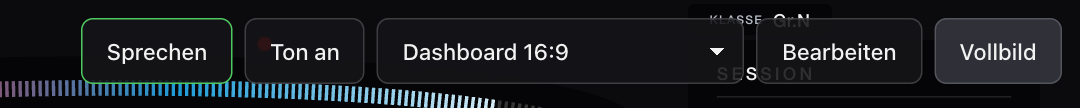
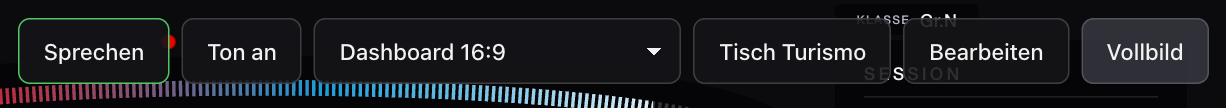
The guides explain Tisch Turismo and record where its code and assets came from
The guides cover the app menu, OBS picture formats, recording and optional Twitch chat, with screenshots in both languages. The provenance and contributor notes describe the game and its tests.

diff --git a/README.de.md b/README.de.md
@@ -34,6 +34,9 @@ Rechner, für ein Tablet neben dem Rig oder als Browser-Quelle in OBS.
   für Google Gemini.
 - **Eine Demo-Fahrt** ist eingebaut: eine aufgezeichnete Fahrt über vier Runden. Du kannst alles
   ohne Konsole ausprobieren, auch die Rundenzeiten und den Untergrund-Ring.
+- **Tisch Turismo**, ein kleines Spiel nebenbei: Ein Spielzeugauto fährt auf einem Schreibtisch
+  nach, was du fährst, und deine eigenen früheren Runden fahren dagegen. Gedacht für die
+  Zuschauer eines Streams.
 
 <p>
   <img src="docs/images/milk.gif" width="170" alt="Ein Glas Milch, das mit den Kräften im Auto schwappt">
@@ -135,6 +138,40 @@ Sie ist durchsichtig, zeigt das Overlay-Layout und blendet die Fahranzeigen aus,
 den Menüs bist. `?layout=<Name>` wählt ein anderes Layout, `?lang=en` und `?units=imperial`
 stellen Sprache und Einheiten für diese Quelle ein.
 
+## Tisch Turismo – das Spiel auf dem Schreibtisch
+
+<img src="docs/images/de/game.png" width="430" align="right" alt="Tisch Turismo: ein Spielzeugauto auf einer orangen Bahn auf einem Schreibtisch, daneben ein blaues Auto als Gegner">
+
+Ein Spielzeugauto fährt auf einem Schreibtisch genau das nach, was dein Auto auf der PlayStation
+gerade tut – im Aussehen eines Rennspiels der Neunzigerjahre. Einen Controller braucht es nicht:
+Du spielst, indem du Gran Turismo 7 fährst.
+
+1. **Vermessen:** Bis zur ersten vollen Runde zieht das Auto eine Kreidelinie über den Tisch.
+2. **Bahn:** Ist die Runde zu, klicken entlang der Linie orange Bahnteile ein. In den nächsten
+   Runden rückt die Bahn noch dorthin, wo du wirklich fährst.
+3. **Gegner:** Deine Bestrunde (blau) und deine letzte Runde (rot) fahren als Spielzeugautos mit.
+4. **Wertung:** Wer den anderen abhängt, bekommt ein Licht; acht Lichter gewinnen die Partie.
+   Münzen auf der Bahn bringen Cr., Öl kostet welche, Drifts zählen nach Winkel und Dauer.
+
+Du öffnest es über das Menü des Symbols (*Tisch Turismo (Spiel)*), über das Menü des Dashboards
+oder unter `http://127.0.0.1:8707/game`. Ohne Konsole fährt die Demo-Fahrt. Unter dem Bild wählst
+du seine Form (4:3, 16:9 oder 9:16); *Aufnehmen* speichert das Bild als Video (im Browser, nicht
+im Fenster der App).
+
+**In OBS** eine zweite Quelle *Browser* anlegen: `http://127.0.0.1:8707/game?obs=1&format=wide`,
+1536 × 864. Für 4:3 `format` weglassen und 1280 × 960 nehmen, für 9:16 `format=portrait` und
+864 × 1536 – bei diesen Größen ist jedes Pixel des Spiels genau zwei Pixel breit. `&delay=640`
+hält das Bild um so viele Millisekunden zurück, damit es zu einem Spielbild passt, das verspätet
+in OBS ankommt (Capture-Karte). Wird die Quelle mitten im Rennen neu geladen, baut das Spiel
+Bahn, Gegner und Punktestand aus der bisherigen Fahrt wieder auf.
+
+**Zuschauer spielen mit**, wenn du deinen Twitch-Kanal nennst: `&channel=deinkanal`. `!münze`
+legt eine Münze voraus auf die Bahn, `!öl` einen Ölfleck (je Zuschauer alle 20 Sekunden). Dafür
+liest die Seite den öffentlichen Chat dieses Kanals direkt bei Twitch mit.
+
+Die Zettel auf dem Schreibtisch erzählen kleine wahre Geschichten über Gran Turismo. *Quellen*
+unter dem Bild nennt die Belege – und wessen Arbeit im Spiel steckt.
+
 ## Sprache und Einheiten
 
 Deutsch und Englisch; jedes Gerät nimmt seine eigene Sprache, solange du unter *Einstellungen*
@@ -202,12 +239,13 @@ Ohne die Box läuft alles andere wie gewohnt.
 
 Das Menü des Dashboards erscheint, wenn du den Zeiger bewegst oder den Bildschirm berührst:
 
-<img src="docs/images/de/menu.png" width="540" alt="Menü des Dashboards: Sprechen, Ton an, Layout, Bearbeiten, Vollbild">
+<img src="docs/images/de/menu.png" width="540" alt="Menü des Dashboards: Sprechen, Ton an, Layout, Tisch Turismo, Bearbeiten, Vollbild">
 
 ## Datenschutz und Sicherheit
 
 - Das Programm spricht mit deiner PlayStation und mit den Geräten in deinem Heimnetz. Ins
-  Internet geht nichts – außer an Google, wenn du die Box mit Gemini nutzt (siehe oben).
+  Internet geht nichts – außer an Google, wenn du die Box mit Gemini nutzt (siehe oben). Das
+  Spiel liest den Chat eines Twitch-Kanals nur mit, wenn du in seiner Adresse einen nennst.
 - Es ist für ein Heimnetz gemacht. Gib seinen Port nicht ins Internet frei.
 - Einstellungen und eigene Layouts liegen in deinem Benutzerordner (`gt7-companion-by-qshi`).
 

diff --git a/README.md b/README.md
@@ -33,6 +33,8 @@ computer, for a tablet next to your rig, or as a browser source in OBS.
   Gemini API key.
 - **A demo drive** is built in: a recorded drive of four laps. You can try everything without
   a console, lap times and the surface ring included.
+- **Tisch Turismo**, a little game on the side: a toy car on a desk drives what you drive, and
+  your own earlier laps race against it. Made for the viewers of a stream.
 
 <p>
   <img src="docs/images/milk.gif" width="170" alt="A glass of milk that sloshes with the forces in the car">
@@ -130,6 +132,39 @@ It is transparent, shows the overlay layout and hides the driving widgets while 
 the menus. `?layout=<name>` picks another layout, `?lang=en` and `?units=imperial` set
 language and units for this source.
 
+## Tisch Turismo – the game on the desk
+
+<img src="docs/images/en/game.png" width="430" align="right" alt="Tisch Turismo: a toy car on an orange track on a desk, next to it a blue car as its opponent">
+
+A toy car on a desk drives exactly what your car is doing on the PlayStation – in the look of a
+racing game of the 1990s. It needs no controller: you play it by driving Gran Turismo 7.
+
+1. **Measuring:** until your first full lap is done, the car draws a chalk line across the desk.
+2. **Track:** once the lap is closed, orange track pieces click into place along the line. Over
+   the next laps the track still moves to where you really drive.
+3. **Opponents:** your best lap (blue) and your last lap (red) drive along as toy cars.
+4. **Score:** whoever pulls away from the other gets a light; eight lights win the match. Coins
+   on the track bring credits, oil costs some, drifts count by angle and length.
+
+Open it from the menu of the symbol (*Tisch Turismo (game)*), from the menu of the dashboard or
+at `http://127.0.0.1:8707/game`. Without a console it plays the demo drive. Below the picture
+you choose its shape (4:3, 16:9 or 9:16); *Record* saves the picture as a video (in a browser,
+not in the window of the app).
+
+**In OBS** add a second *Browser* source: `http://127.0.0.1:8707/game?obs=1&format=wide`,
+1536 × 864. For 4:3 leave `format` out and take 1280 × 960, for 9:16 `format=portrait` and
+864 × 1536 – at these sizes every pixel of the game is exactly two pixels wide. `&delay=640`
+holds the picture back by that many milliseconds, so that it matches a game picture that
+reaches OBS late (a capture card). If the source is loaded again in the middle of a race, the
+game builds track, opponents and score up again from the drive so far.
+
+**Viewers join in** when you name your Twitch channel: `&channel=yourchannel`. `!coin` puts a
+coin on the track ahead, `!oil` an oil slick (each viewer every 20 seconds). For this the page
+reads the public chat of that channel directly from Twitch.
+
+The notes on the desk tell small true stories about Gran Turismo. *Sources* below the picture
+lists where they come from – and whose work is in the game.
+
 ## Language and units
 
 German and English; each device uses its own language unless you choose one under *Settings*.
@@ -195,12 +230,13 @@ Without the Box everything else works as usual.
 
 The menu of the dashboard appears when you move the pointer or touch the screen:
 
-<img src="docs/images/en/menu.png" width="540" alt="Menu of the dashboard: Talk, Sound on, layout, Edit, Full screen">
+<img src="docs/images/en/menu.png" width="540" alt="Menu of the dashboard: Talk, Sound on, layout, Tisch Turismo, Edit, Full screen">
 
 ## Privacy and safety
 
 - The program talks to your PlayStation and to the devices in your home network. Nothing is
-  sent to the internet, except to Google when you use the Box with Gemini (see above).
+  sent to the internet, except to Google when you use the Box with Gemini (see above). The game
+  reads the chat of a Twitch channel only if you name one in its address.
 - It is made for a home network. Do not open its port to the internet.
 - Settings and your own layouts are stored in your user folder (`gt7-companion-by-qshi`).
 

diff --git a/PROVENANCE.md b/PROVENANCE.md
@@ -74,3 +74,33 @@ The two 3D models are generated by `tools/blender/make_milkglass.py` and
 `tests/test_packet_c.py`, `tests/test_telemetry_view.py` and `tests/js/` were taken over; the
 parts about recording and training were dropped, paths adjusted, one check rewritten without
 numpy.
+
+## Tisch Turismo
+
+The game under `src/gt7companion/web/static/game/` was taken over from qshi's private game
+project (state of 9 October 2026, private commit `ac1877d`). Its packet reader, timeline,
+track recorder and builder, race rules, ghosts, desk world and PlayStation 1 rendering were
+kept. The models, textures and bitmap fonts came with their generator scripts and font
+sources (`tools/game/`); their origins, licences and reproduction steps are listed in
+`tools/game/SOURCES.md`. The three.js files were already identical to this project's
+bundled r186 subset.
+
+The standalone server (`serve.py`, `bridge/`) was replaced by `game.py`: the companion
+passes decrypted packets from the telemetry bus over `/game/ws`, remembering the running
+drive so a page opened later can rebuild it. The game's stream reader now uses that
+WebSocket and reconnects after a lost connection. Its separate demo and QA modes were
+left out; it uses the companion's demo, with continuous packet and lap numbers.
+
+`game.html` and `game-credits.html` are new. The entry script, panel, HUD, recording texts,
+desk notes and credits use the companion's German/English dictionary. Asset paths are
+relative to their modules, picture formats fit device pixels, and English address options
+work alongside the German ones. Twitch chat connects only when a channel is named in the
+address; the game never displays the console's address. Video recording is offered in a
+browser, with its button hidden in the app window.
+
+The game's JavaScript tests were ported to `tests/js/game-*.test.mjs`, with import and
+fixture paths adjusted; tests for its integration were added in `tests/test_game.py`,
+`tests/test_game_browser.py` and `tests/js/game-app.test.mjs`. Their original test drive
+is reconstructed by `tests/js/_game.mjs` from the bundled Deep Forest demo and
+`tests/fixtures/deep-forest-rest.bin.gz`: 22,619 packets in number order, SHA-256
[1 lines of base64/hex data omitted]

diff --git a/CONTRIBUTING.md b/CONTRIBUTING.md
@@ -17,10 +17,10 @@ stay out of your real user folder.
 
 ```sh
 .venv/bin/python -m unittest discover -s tests -q     # Python
-node --test tests/js/                                  # physics of the figures, stage fitting, layout choice
+node --test tests/js/                                  # figures, layouts, Tisch Turismo rules and assets
 ```
 
-The tests in `tests/test_browser.py` drive a real browser and are skipped without Playwright
+The tests in `tests/test_browser.py` and `tests/test_game_browser.py` drive a real browser and are skipped without Playwright
 (`pip install playwright && playwright install chromium`). `GT7C_CHROMIUM` may name a Chromium
 executable to use instead.
 
@@ -33,6 +33,9 @@ interface (`tests/test_live.py`), the voice service by a small server speaking i
 - `src/gt7companion/telemetry.py` receives and decrypts, `detectors.py` finds laps, spins and
   impacts, `hub.py` thins the stream out for the screens, `app.py` serves pages, API and the
   live connection, `security.py` decides who may do what.
+- `src/gt7companion/game.py` remembers and streams the packets for Tisch Turismo.
+  `web/static/game/` holds its ES modules and assets; `tools/game/` holds the generators and
+  font sources (see `tools/game/SOURCES.md`). The game calculates the track and race in the browser.
 - `src/gt7companion/web/` is the page, without a build step: ES modules in `static/js/`.
   Widgets sit on a stage of fixed size that is scaled as a whole (`stage.js`).
 - `src/gt7companion/engineer/` is the Box: `engine.py` queues and speaks, `live.py` is the

diff --git a/docs/INSTALL.de.md b/docs/INSTALL.de.md
@@ -128,6 +128,19 @@ http://127.0.0.1:8707/?obs=1
 
 <img src="images/de/overlay.png" width="640" alt="Overlay">
 
+Das kleine Spiel **Tisch Turismo** – ein Spielzeugauto auf einem Schreibtisch, das nachfährt, was
+du fährst – ist eine zweite Quelle derselben Art: Breite 1536, Höhe 864, Adresse:
+
+```
+http://127.0.0.1:8707/game?obs=1&format=wide
+```
+
+<img src="images/de/game.png" width="430" alt="Tisch Turismo">
+
+Am Rechner selbst öffnest du es über das Menü des Symbols: **Tisch Turismo (Spiel)**. Die anderen
+Formen des Bilds und wie deine Zuschauer mitspielen, steht in der
+[README](../README.de.md#tisch-turismo--das-spiel-auf-dem-schreibtisch).
+
 ## 7. Die Box – Renningenieur am Funk (wer mag)
 
 **In der Mac-App (ab macOS 26)** braucht die Box nichts weiter: Symbol → **Einstellungen** →

diff --git a/docs/INSTALL.md b/docs/INSTALL.md
@@ -123,6 +123,19 @@ http://127.0.0.1:8707/?obs=1
 
 <img src="images/en/overlay.png" width="640" alt="Overlay">
 
+The little game **Tisch Turismo** – a toy car on a desk that drives what you drive – is a second
+source of the same kind: width 1536, height 864, address:
+
+```
+http://127.0.0.1:8707/game?obs=1&format=wide
+```
+
+<img src="images/en/game.png" width="430" alt="Tisch Turismo">
+
+On the computer itself it opens from the menu of the symbol: **Tisch Turismo (game)**. The other
+shapes of the picture and how your viewers can join in are in the
+[README](../README.md#tisch-turismo--the-game-on-the-desk).
+
 ## 7. The Box – race engineer on the radio (optional)
 
 **In the Mac app (macOS 26 or newer)** the Box needs nothing else: symbol → **Settings** →
